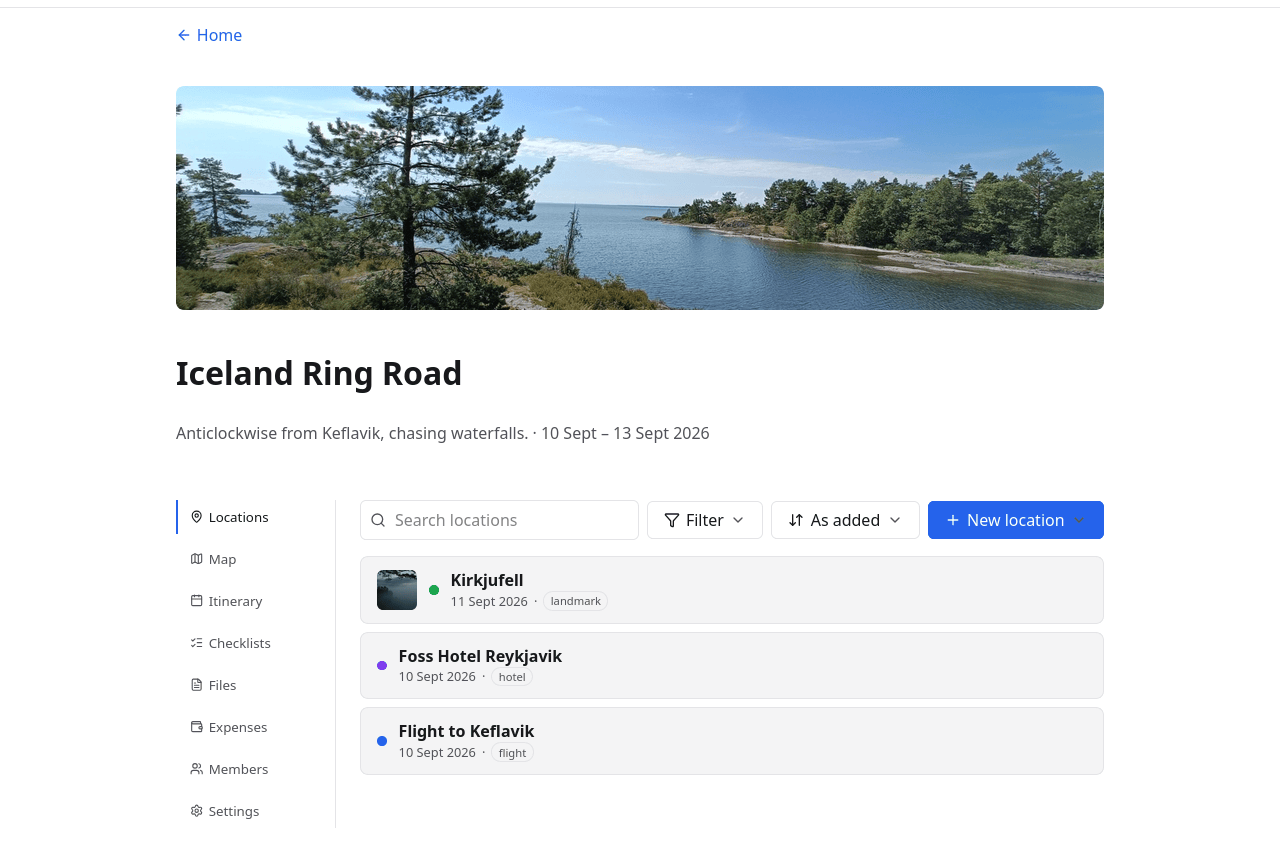
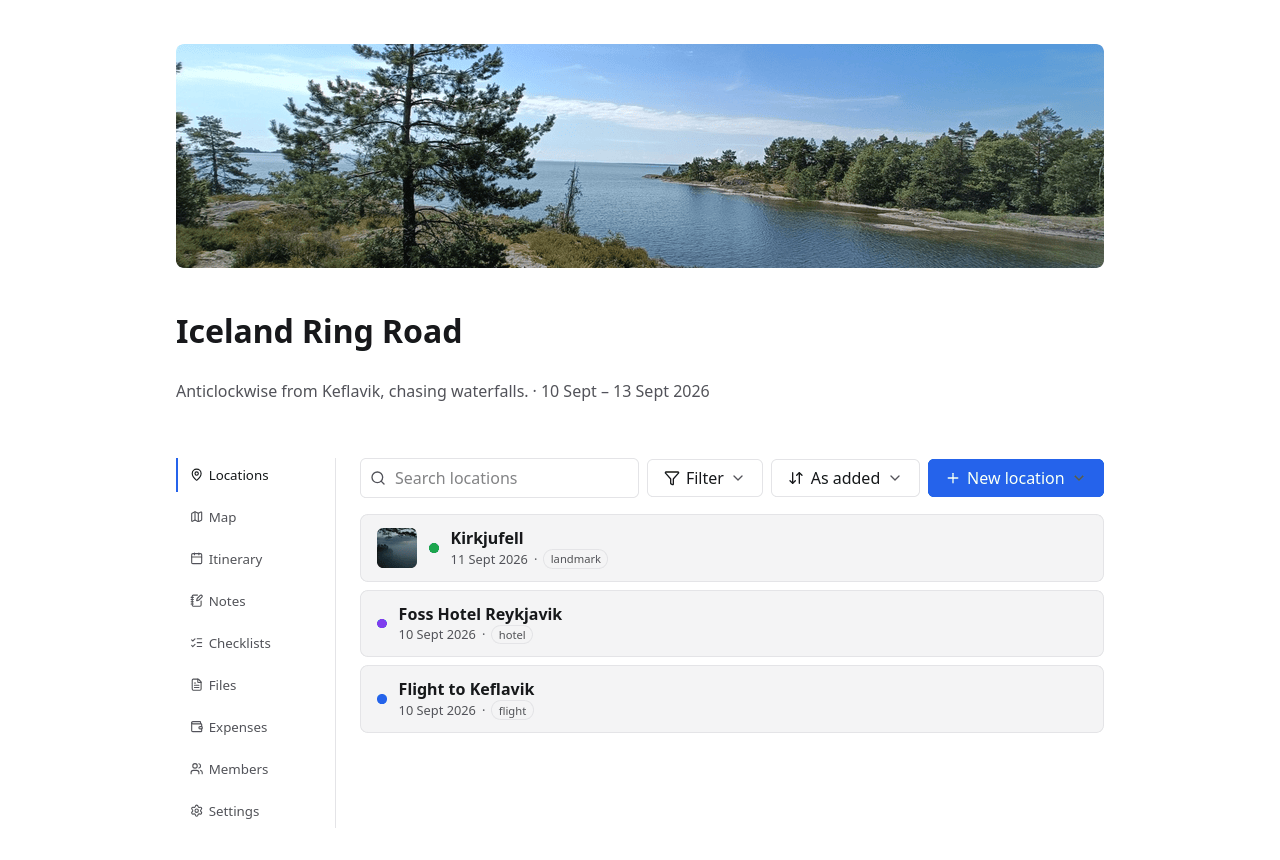
Stage 31 Milestone 3: pin the notes tab, and document it
The generic sweeps already cover the notes tab as a route -- overlap, tap
targets, heading outline, accessible names, where it sits in the bar. None of
them press a button, so nothing yet defended the only thing the tab actually
does: which of its two modes you land in.

tests/ui/notes.spec.js covers that transition by transition -- empty opens the
editor with no Cancel, saving renders real h2/li/em and switches to the read
view, reload lands in the read view, Edit returns the source verbatim, Cancel
discards a draft without resurrecting it, and clearing to whitespace returns
to the fresh-trip state -- plus a viewer who reads the note and is offered no
editor. It owns its trips, like checklists.spec.js: the seeded full trip's
note is what the screenshot run captures.

sharing.spec.js gets the same viewer check in its per-tab sweep, both before
and after promotion. Its fixture now writes a note, for the reason its own
comment already gives about locations and checklists: on a trip with no note
*everyone* gets the editor, so an empty one would assert nothing.

The specs were mutation-checked, not just observed passing. Forcing
`editing = false` in notes-tab.js fails exactly the two tests that own the
mode rule; the file was then restored from a pre-mutation copy and diffed
clean.

Docs: the page becomes "The itinerary, notes and lists" (nav label follows)
with a Notes section between the itinerary and files. The home page's feature
[…]

diff --git a/tests/ui/notes.spec.js b/tests/ui/notes.spec.js
@@ -1,0 +1,135 @@
+// The trip notepad, end to end.
+//
+// The generic sweeps already cover this tab as a route -- routes.spec.js for
+// overlap and tap targets, headings.spec.js for the outline, a11y-names.spec.js
+// for the controls, menu.spec.js for where the tab sits in the bar. None of
+// them press a button. What is left, and what this file is, is the one thing
+// the tab actually does: which of its two modes you land in, and that the
+// markdown you type comes back rendered and comes back editable.
+//
+// The mode rule is the whole feature and is easy to get subtly wrong, so each
+// transition is asserted rather than inferred: empty opens the editor, saved
+// opens the read view, Edit goes back with the source intact, Cancel throws a
+// draft away, and clearing returns to the editor.
+//
+// Owns its trips, like checklists.spec.js: the seeded `full` trip carries a
+// note that other specs and the screenshot run read, so writing to it here
+// would make this file's order matter.
+import { test, expect } from "@playwright/test";
+import { login, openAs, OTHER_AUTH_STATE_FILE } from "./helpers/scenarios.js";
+
+const MOBILE = { width: 324, height: 756 };
+
+const SOURCE = ["## Ferry", "", "Book by *May*.", "", "- passport", "- paper licence"].join("\n");
+
+test.describe("trip notes, end to end", () => {
+  test.use({ viewport: MOBILE });
+
+  let tripId;
+
+  test.beforeEach(async ({ page }) => {
+    await login(page);
+    const res = await page.request.post("/api/trips", { data: { title: "UI suite: notes spec" } });
+    expect(res.status(), "create the spec's own trip").toBe(201);
+    tripId = (await res.json()).id;
+  });
+
+  test.afterEach(async ({ page }) => {
+    if (tripId) await page.request.delete(`/api/trips/${tripId}`);
+    tripId = null;
+  });
+
+  test("opens in the editor when empty, and renders the markdown once saved", async ({ page }) => {
+    await page.goto(`/trips/${tripId}/notes`);
+
+    // Nothing written: straight into the editor, with no Cancel, because there
+    // is no saved note to cancel back to.
+    const textarea = page.locator(".trip-notes textarea");
+    await expect(textarea).toBeVisible();
+    await expect(textarea).toHaveValue("");
+    await expect(page.locator(".trip-notes__edit")).toHaveCount(0);
+    await expect(page.locator(".trip-notes__cancel")).toHaveCount(0);
+    await expect(page.locator(".trip-notes__rendered")).toHaveCount(0);
+
+    await textarea.fill(SOURCE);
+    await page.locator('.trip-notes__form button[type="submit"]').click();
+
+    // Saved: the read view, with real markup rather than the source text. The
+    // heading and the list are the two the server's renderer is actually being
+    // trusted for -- a client that inserted the markdown as text would still
+    // "contain" the words.
+    const rendered = page.locator(".trip-notes__rendered");
+    await expect(rendered).toBeVisible();
+    await expect(rendered.locator("h2")).toHaveText("Ferry");
+    await expect(rendered.locator("li")).toHaveText(["passport", "paper licence"]);
+    await expect(rendered.locator("em")).toHaveText("May");
+    await expect(page.locator(".trip-notes textarea")).toHaveCount(0);
+    await expect(page.locator(".trip-notes__edit")).toBeVisible();
+
+    // And it is the mode you come back to, not just the mode you were left in.
+    await page.reload();
+    await expect(page.locator(".trip-notes__rendered h2")).toHaveText("Ferry");
+    await expect(page.locator(".trip-notes textarea")).toHaveCount(0);
+  });
+
+  test("Edit gives the source back, and Cancel throws away an unsaved draft", async ({ page }) => {
+    await page.request.put(`/api/trips/${tripId}/notes`, { data: { body: SOURCE } });
+    await page.goto(`/trips/${tripId}/notes`);
+
+    await page.locator(".trip-notes__edit").click();
+
+    // The markdown as typed, not the rendered text: this is the assertion that
+    // fails if the tab ever starts round-tripping through the HTML.
+    const textarea = page.locator(".trip-notes textarea");
+    await expect(textarea).toHaveValue(SOURCE);
+
+    await textarea.fill("thrown away");
+    await page.locator(".trip-notes__cancel").click();
+
+    await expect(page.locator(".trip-notes__rendered h2")).toHaveText("Ferry");
+    await expect(page.locator(".trip-notes__rendered")).not.toContainText("thrown away");
+
+    // Re-opening must not resurrect the discarded draft.
+    await page.locator(".trip-notes__edit").click();
+    await expect(page.locator(".trip-notes textarea")).toHaveValue(SOURCE);
+  });
+
+  test("clearing the note puts you back where a fresh trip starts", async ({ page }) => {
+    await page.request.put(`/api/trips/${tripId}/notes`, { data: { body: SOURCE } });
+    await page.goto(`/trips/${tripId}/notes`);
+
+    await page.locator(".trip-notes__edit").click();
+    await page.locator(".trip-notes textarea").fill("   ");
+    await page.locator('.trip-notes__form button[type="submit"]').click();
+
+    // Whitespace is not a note: the row is deleted, so this is the same state
+    // as a trip nobody has written on -- the editor, and no Cancel.
+    await expect(page.locator(".trip-notes textarea")).toHaveValue("");
+    await expect(page.locator(".trip-notes__rendered")).toHaveCount(0);
+    await expect(page.locator(".trip-notes__cancel")).toHaveCount(0);
+
+    await page.reload();
+    await expect(page.locator(".trip-notes textarea")).toBeVisible();
+    await expect(page.locator(".trip-notes__rendered")).toHaveCount(0);
+  });
+
+  test("a viewer reads the note and is offered no way to change it", async ({ page, browser }) => {
+    await page.request.put(`/api/trips/${tripId}/notes`, { data: { body: SOURCE } });
+    const added = await page.request.post(`/api/trips/${tripId}/members`, {
+      data: { username: "other", role: "viewer" },
+    });
+    expect(added.status(), "add the viewer").toBe(201);
+
+    const { context, page: theirPage } = await openAs(browser, OTHER_AUTH_STATE_FILE, MOBILE);
+    try {
+      await theirPage.goto(`/trips/${tripId}/notes`);
+      // Both halves: the note is there, and the controls are not. Asserting
+      // only the absence would pass on a tab that failed to load at all.
+      await expect(theirPage.locator(".trip-notes__rendered h2")).toHaveText("Ferry");
+      await expect(theirPage.locator(".trip-notes textarea")).toHaveCount(0);
+      await expect(theirPage.locator(".trip-notes__edit")).toHaveCount(0);
+    } finally {
+      await context.close();
+    }
+  });
+});

diff --git a/tests/ui/sharing.spec.js b/tests/ui/sharing.spec.js
@@ -66,6 +66,11 @@ for (const locale of ["en", "de"]) {
       const listId = (await list.json()).id;
       const listItem = await page.request.post(`/api/checklists/${listId}/items`, { data: { text: "something" } });
       expect(listItem.status()).toBe(201);
+      // And a trip note, for that same reason: the notes tab renders an editor
+      // for an editor and nothing but prose for a viewer, and on a trip with no
+      // note *everyone* gets the editor -- so an empty note would assert nothing.
+      const note = await page.request.put(`/api/trips/${tripId}/notes`, { data: { body: "## Ferry\n\nBook by May." } });
+      expect(note.status()).toBe(200);
     });
 
     test.afterEach(async ({ page }) => {
@@ -121,6 +126,11 @@ for (const locale of ["en", "de"]) {
         await expect(theirPage.locator(".checklist-item-form")).toHaveCount(0);
         await expect(theirPage.locator(".checklist-item input[type=checkbox]")).toBeDisabled();
 
+        await theirPage.goto(`/trips/${tripId}/notes`);
+        await expect(theirPage.locator(".trip-notes__rendered h2")).toHaveText("Ferry");
+        await expect(theirPage.locator(".trip-notes textarea")).toHaveCount(0);
+        await expect(theirPage.locator(".trip-notes__edit")).toHaveCount(0);
+
         await theirPage.goto(`/trips/${tripId}/files`);
         await expect(theirPage.locator(".file-drop")).toHaveCount(0);
 
@@ -141,6 +151,9 @@ for (const locale of ["en", "de"]) {
         await theirPage.goto(`/trips/${tripId}/checklists`);
         await expect(theirPage.locator(".checklist-new-form")).toHaveCount(1);
         await expect(theirPage.locator(".checklist-item input[type=checkbox]")).toBeEnabled();
+
+        await theirPage.goto(`/trips/${tripId}/notes`);
+        await expect(theirPage.locator(".trip-notes__edit")).toHaveCount(1);
 
         // --- and they can leave under their own steam ---
         await theirPage.goto(`/trips/${tripId}/members`);

diff --git a/cmd/seed/main.go b/cmd/seed/main.go
@@ -597,7 +597,7 @@ func seedFull(s seedCtx) error {
 			"- Ferry tickets are refundable until *14 days* before departure.\n" +
 			"- The rental car needs the paper licence, not just the card.\n\n" +
 			"## Ideas nobody has scheduled yet\n\n" +
-			"Hot spring on the way back, if the road is open. Ask Anna --\n" +
+			"Hot spring on the way back, if the road is open. Ask Anna \u2014\n" +
 			"she drove it last spring.\n",
 		UpdatedAt: time.Now().UTC(),
 		UpdatedBy: &s.ownerID,

diff --git a/plans/stage-31.md b/plans/stage-31.md
@@ -284,6 +284,48 @@ before regenerating; `make screenshots` needs `scrollTo` for tab captures.
 
 **Verify.** `make ci`, `make test-ui`, `make docs`.
 
+**Done.** Landed as scoped after Milestone 2 absorbed the reshuffle.
+
+`tests/ui/notes.spec.js` — four tests, owning their own trip like
+`checklists.spec.js` does, because the seeded `full` trip's note is read by the
+screenshot run. They cover the mode rule transition by transition (empty opens
+the editor with no Cancel; saving renders `h2`/`li`/`em` and switches to the
+read view; reload lands in the read view; Edit returns the source verbatim;
+Cancel discards a draft without resurrecting it; clearing to whitespace returns
+to the fresh-trip state) plus a viewer who reads the note and is offered no
+editor. `sharing.spec.js` gained the same viewer check in its per-tab sweep,
+including the promoted-to-editor half — and its fixture now writes a note for
+the reason its own comment already gives about locations and checklists: on a
+trip with *no* note everyone gets the editor, so an empty note would assert
+nothing.
+
+The specs were mutation-checked rather than merely observed passing: forcing
+`editing = false` in `notes-tab.js` fails exactly the two tests that own the
+mode rule, and the file was restored from a pre-mutation copy and diffed clean.
+
+Docs: the page is retitled "The itinerary, notes and lists" (nav label
+follows), with a Notes section between the itinerary and files. The home
+page's feature card needed no change — its copy is thematic and never named the
+page title.
+
+Screenshots regenerated, and this was not optional: every trip-tab capture
+shows the tab bar, which now reads differently. `notes.png` was added to
+`gen_screenshots.mjs` after the itinerary shot. The seeded note needed one fix
+found only by looking at the result — it had `--` where an em dash belonged,
+which is a habit from the SQL-comment rule in CLAUDE.md that does not apply to
+a Go string, and it was rendering literally on the project website.
+
+Verified: `make ci` green (16 screenshots, all shown by a page), `make test-ui`
+green at 230 passed — up from 226, the four new tests — and `make docs` green
+under `--strict`.
+
+One gap found and recorded in `todo.md`: `--strict` does **not** catch a
+missing image. `make docs` passed cleanly while the new page referenced
+`notes.png` before it existed, and a deliberate reference to a made-up filename
+also exits 0. Only `check_screenshots.py` looks at these, and it checks the
+other direction — that every committed file is used, not that every reference
+resolves.
+
 ## Build order
 
 1. Milestone 1 — schema through API, backend-only, independently testable

diff --git a/docs/features/itinerary-and-lists.md b/docs/features/itinerary-and-lists.md
@@ -1,7 +1,8 @@
-# The itinerary, files and lists
+# The itinerary, notes and lists
 
-Locations answer *where*. The itinerary answers *when*, and the files and lists
-hold everything you need to have with you.
+Locations answer *where*. The itinerary answers *when*, the notes hold
+everything that is neither, and the files and lists hold what you need to have
+with you.
 
 ## The itinerary
 
@@ -26,6 +27,23 @@ two are one fact with two ways in — whichever you reach for, the other agrees.
 
 On a phone the day cards stack and the tab row collapses to icons — which is the
 form you actually read it in, standing outside somewhere at 9am.
+
+## Notes
+
+![Trip notes](../assets/screenshots/notes.png)
+
+One page per trip for everything that is not a place, a date or a task: why you
+ruled out the northern route, what the ferry office said on the phone, the thing
+somebody has to remember to ask about the rental car.
+
+It is written in [Markdown](https://commonmark.org/help/) — headings, lists,
+emphasis, links — and rendered when you save it. A trip with nothing written
+down opens straight into the editor; once there is something to read, the tab
+shows the note and puts the editor behind **Edit**.
+
+There is one note per trip and everyone on the trip can read it. Any editor can
+change it, and the last save wins, so it is a shared page rather than a private
+one — a viewer reads it and is offered no way to change it.
 
 ## Files
 

diff --git a/plans/todo.md b/plans/todo.md
@@ -563,3 +563,14 @@ else runs this.
   it. If it is added, it must go through the same preview endpoint -- a second
   client-side renderer would be a second sanitizer.
 
+- **The docs build does not catch a missing image.** (Stage 31 Milestone 3, Sep
+  2026.) `zensical build --strict` fails on a dead *internal link* -- which is
+  the whole reason CLAUDE.md calls the flag load-bearing -- but an
+  `![alt](../assets/whatever.png)` pointing at a file that does not exist
+  builds clean and exits 0. Reproduced deliberately with a made-up filename,
+  and hit for real: `make docs` passed while the new Notes page referenced
+  `notes.png` before the screenshot run had created it. `check_screenshots.py`
+  covers only the other direction (every committed screenshot is shown by some
+  page). The missing half is cheap -- walk the image references in `docs/` and
+  assert each target exists -- and belongs next to that script in `make ci`.
+
